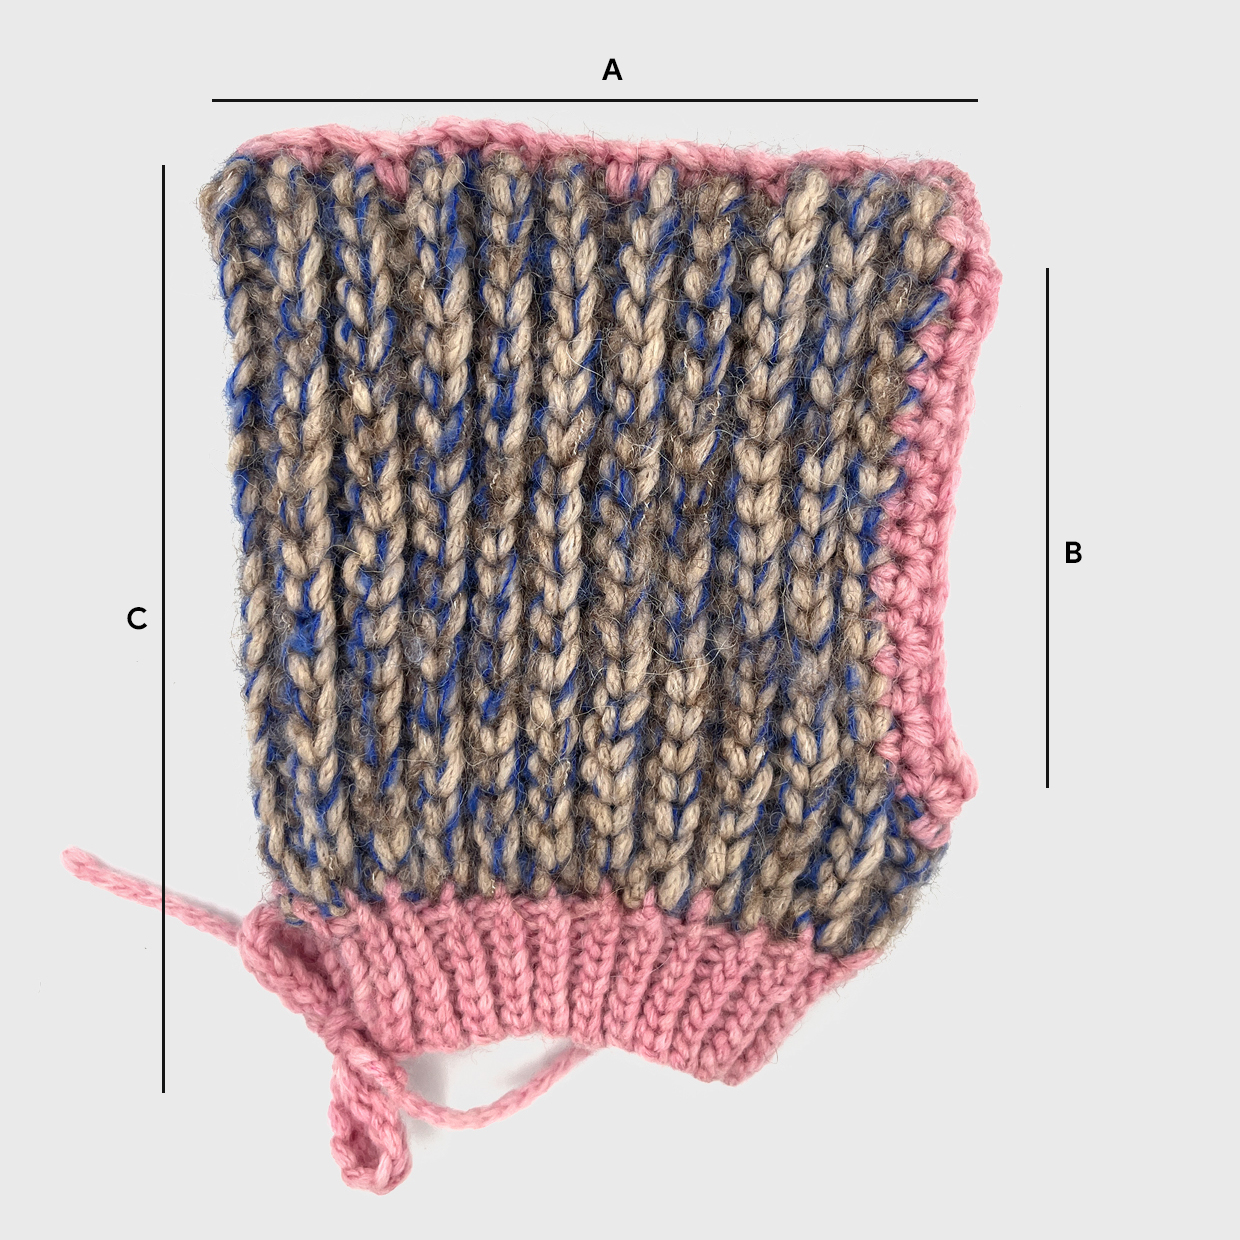
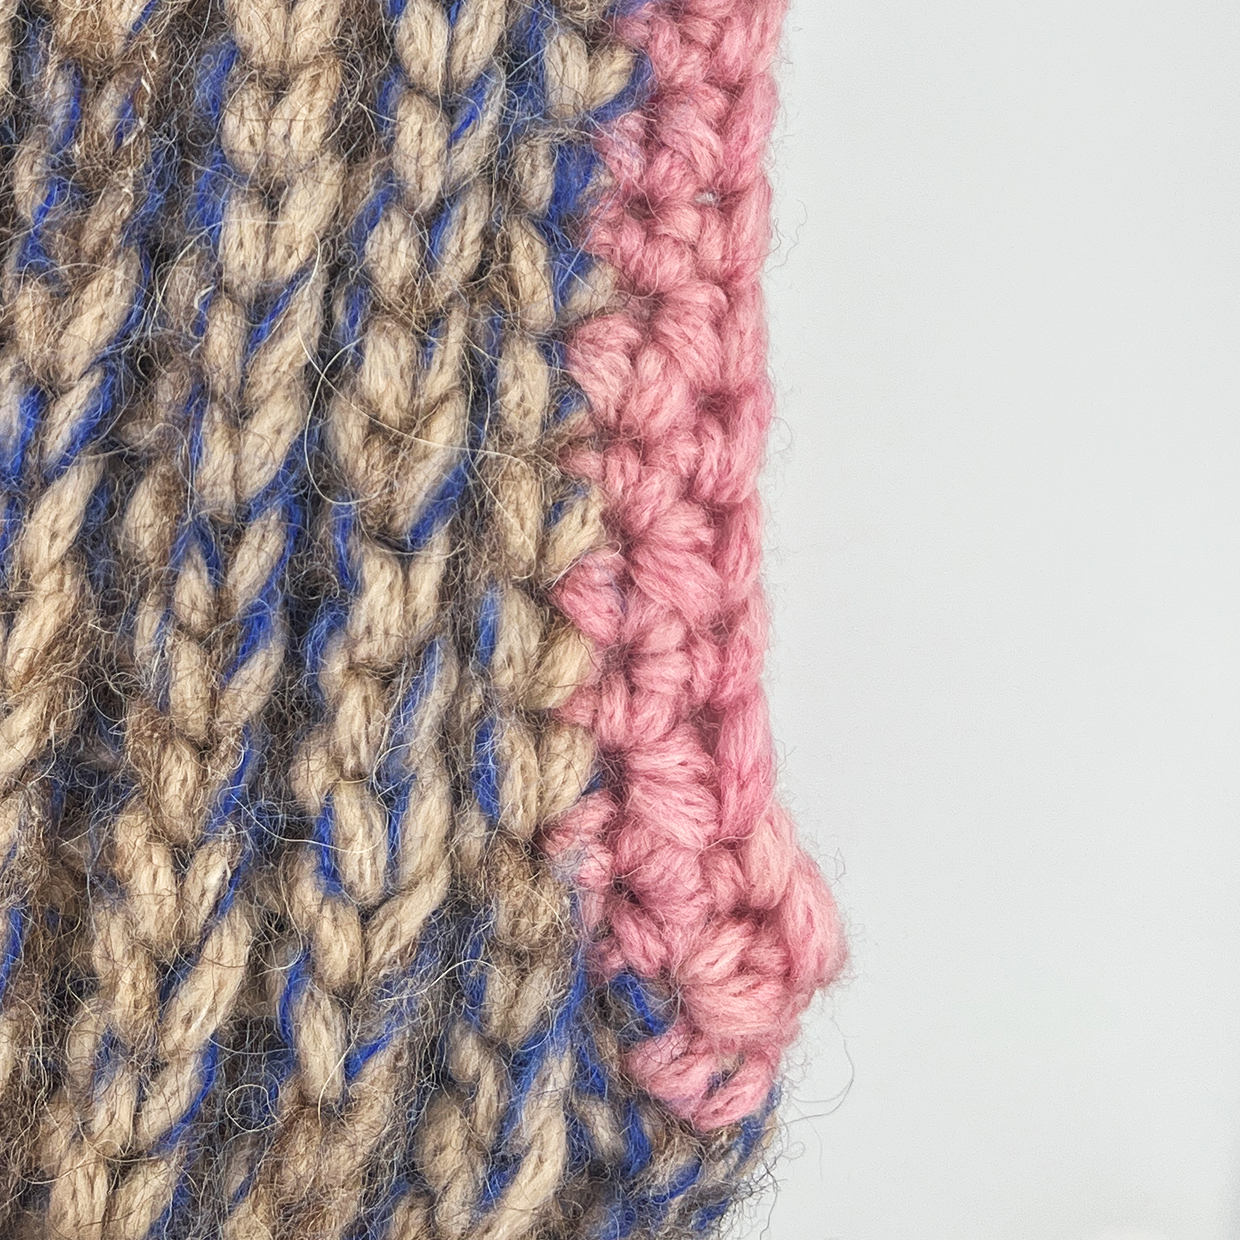
s

diff --git a/pinkchaos.html b/pinkchaos.html
@@ -7,7 +7,7 @@
     <script>history.scrollRestoration = "manual";</script>
 
     <!-- CSS -->
-    <link rel="stylesheet" href="style/subsides.css?v=28" />
+    <link rel="stylesheet" href="style/subsides.css?v=30" />
     <link rel="stylesheet" href="style/shop.css?v=7" />
 
     <!-- GOOGLE FONT -->
@@ -57,7 +57,8 @@
       <section class="detail-content">
         <h1>Pinks Chaos</h1>
         <p class="materials">
-          Kashmir | Schurwolle | Mohair | Alpaka | Polyamid
+          Kashmir | Schurwolle | Mohair | Alpaka | Polyamid<br />
+          Kopfumfang: 51cm | B: 10cm H: 15cm | Guckloch: 10x7cm
         </p>
         <p class="description-text">
           Für sehr kalte Tage. Nicht nur die Ohren, sondern auch der Hals ist
@@ -81,10 +82,10 @@
         aria-label="Weitere Bilder von Pinks Chaos"
       >
         <div class="gallery-image">
-          <img src="assets/01_4.jpg" alt="Pinks Chaos, weitere Nahaufnahme" loading="lazy" />
+          <img src="assets/01_5.jpg" alt="Pinks Chaos, Nahaufnahme" loading="lazy" />
         </div>
         <div class="gallery-image">
-          <img src="assets/01_5.jpg" alt="Pinks Chaos, Nahaufnahme" loading="lazy" />
+          <img src="assets/01_4.jpg" alt="Pinks Chaos, weitere Nahaufnahme" loading="lazy" />
         </div>
         <div class="gallery-image">
           <img src="assets/01_3.jpg" alt="Pinks Chaos, weitere Ansicht" loading="lazy" />

diff --git a/style/subsides.css b/style/subsides.css
@@ -301,13 +301,13 @@ body.subsite-leaving .subsite {
   font-weight: 500;
 }
 
-.pinkchaos .detail-content h1 { margin-bottom: 8px; font-weight: 500; }
+.pinkchaos .detail-content h1 { margin-bottom: 8px; font-size: 35px; font-weight: 500; }
 .pinkchaos .detail-content p.materials {
   margin-bottom: 40px;
   font-size: var(--corner-link-font-size);
   font-weight: 500;
 }
-.pinkchaos .description-text { margin-bottom: 30px; line-height: 1.18; }
+.pinkchaos .detail-content p.description-text { margin-bottom: 30px; font-size: 35px; line-height: 1.18; }
 .pinkchaos .status { margin-bottom: 0; }
 .pinkchaos .detail-content p.status { font-size: var(--corner-link-font-size); }
 .pinkchaos .buy-button { margin-top: 24px; font-size: var(--corner-link-font-size); font-weight: 500; }
@@ -395,7 +395,8 @@ body.subsite-leaving .subsite {
   .pinkchaos .detail-content p,
   .pinkchaos .detail-content p.materials,
   .pinkchaos .buy-button { font-weight: 700; }
-  .pinkchaos .detail-content p.description-text { font-size: 30px; }
+  .pinkchaos .detail-content p.description-text { font-size: 35px; }
+  .pinkchaos .detail-content h1 { font-size: 35px; }
   .pinkchaos { padding-bottom: 44px; }
   .pinkchaos .gallery-secondary { width: min(calc(100% - 32px), 440px); }
   .info-page { width: min(calc(100% - 40px), 900px); }
